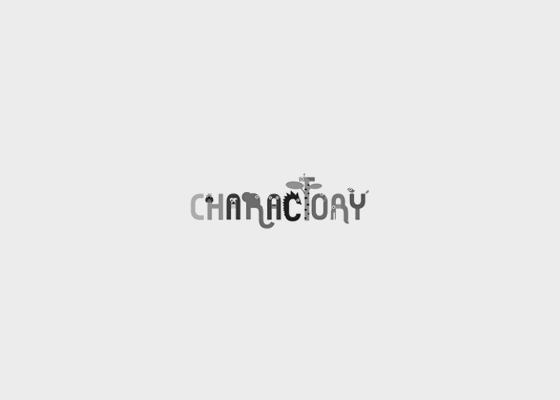
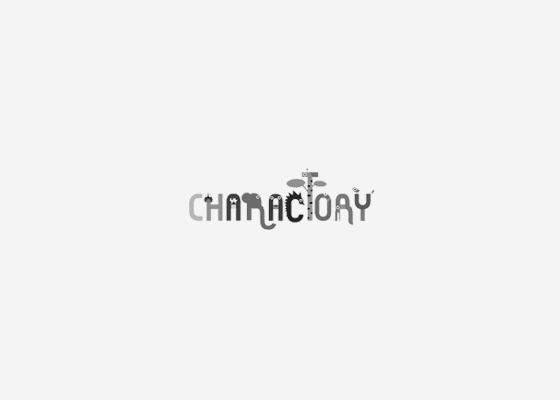
update thumbnail image & add post(webpac + angular + es6)

Changed region(s): [[0.3339, 0.42, 0.6679, 0.57]]

diff --git a/falsy.css b/falsy.css
@@ -86,7 +86,7 @@ header h1 {padding-top: 66px; position: absolute; width: 100%;}
 #sub-header .container {padding:0 1%;}
 
 
-footer {position: relative; background: #fff; padding: 60px 0 120px;}
+footer {position: relative; background: #f2f4f7; padding: 60px 0 120px;}
 
 #footer {}
 #footer:after {content:''; clear: both; display: block;}
@@ -96,7 +96,7 @@ footer {position: relative; background: #fff; padding: 60px 0 120px;}
 #footer .box ol li {margin-top: 18px; color: #777; font-size: 13px;}
 #footer .box ol li a:hover {color: #000;}
 
-.content-area {background: #f7f7f7;}
+.content-area {background: #fff;}
 .content-area header h2 {font-size: 32px; color: #1d1d1d; font-weight: 600; text-align: left; padding: 80px 1% 40px;}
 .content-container {padding-bottom: 120px; min-height: 400px;}
 .content-container:after {content:''; clear: both; display: block;}
@@ -124,6 +124,7 @@ footer {position: relative; background: #fff; padding: 60px 0 120px;}
 
 .pf-column .thumb-img.js-thumb {background-image:url(./img/js.png);}
 
+.pf-column .thumb-img.webpack-thumb {background-image:url(./img/webpack.png);}
 .pf-column .thumb-img.mongo-thumb {background-image:url(./img/mongo.png);}
 .pf-column .thumb-img.babel-thumb {background-image:url(./img/babel.png);}
 .pf-column .thumb-img.nvm-thumb {background-image:url(./img/nvm.png);}

diff --git a/index.html b/index.html
@@ -89,6 +89,12 @@
                 </div>
                 <div class="box">
                   <div class="pf-column">
+                    <div class="thumb-img webpack-thumb"></div>
+                    <p>Webpack + Angular + ES6<br /><span class="pf-date">2017-04</span></p>
+                    <span class="type">in progress</span>
+                    <a class="area-link" href="https://gist.github.com/falsy/2078d64cb7f200e674c08abdbf1ecffb" target="_blank"></a>
+                  </div>
+                  <div class="pf-column">
                     <div class="thumb-img mongo-thumb"></div>
                     <p>MongoDB<br /><span class="pf-date">2017-03</span></p>
                     <a class="area-link" href="https://gist.github.com/falsy/6ff84294c8752a5c5f4b51ad5833648a" target="_blank"></a>
@@ -144,7 +150,7 @@
                 <div class="box">
                   <div class="pf-column">
                     <div class="thumb-img cheolguso-v3-thumb"></div>
-                    <p>Cheolguso v3<br /><span class="pf-date">2014/2016</span></p>
+                    <p>Cheolguso v3<br /><span class="pf-date">2014~2016</span></p>
                     <a class="area-link" href="http://cheolguso.com/" target="_blank"></a>
                   </div>
                 </div>

diff --git a/README.md b/README.md
@@ -1,6 +1,11 @@
 # FALSY.ME
 Personal Website
 
+
+### v0.5.5
+##### update thumbnail image
+##### add post(webpac + angular + es6)
+
 ### v0.5.3
 ##### modify footer style
 
